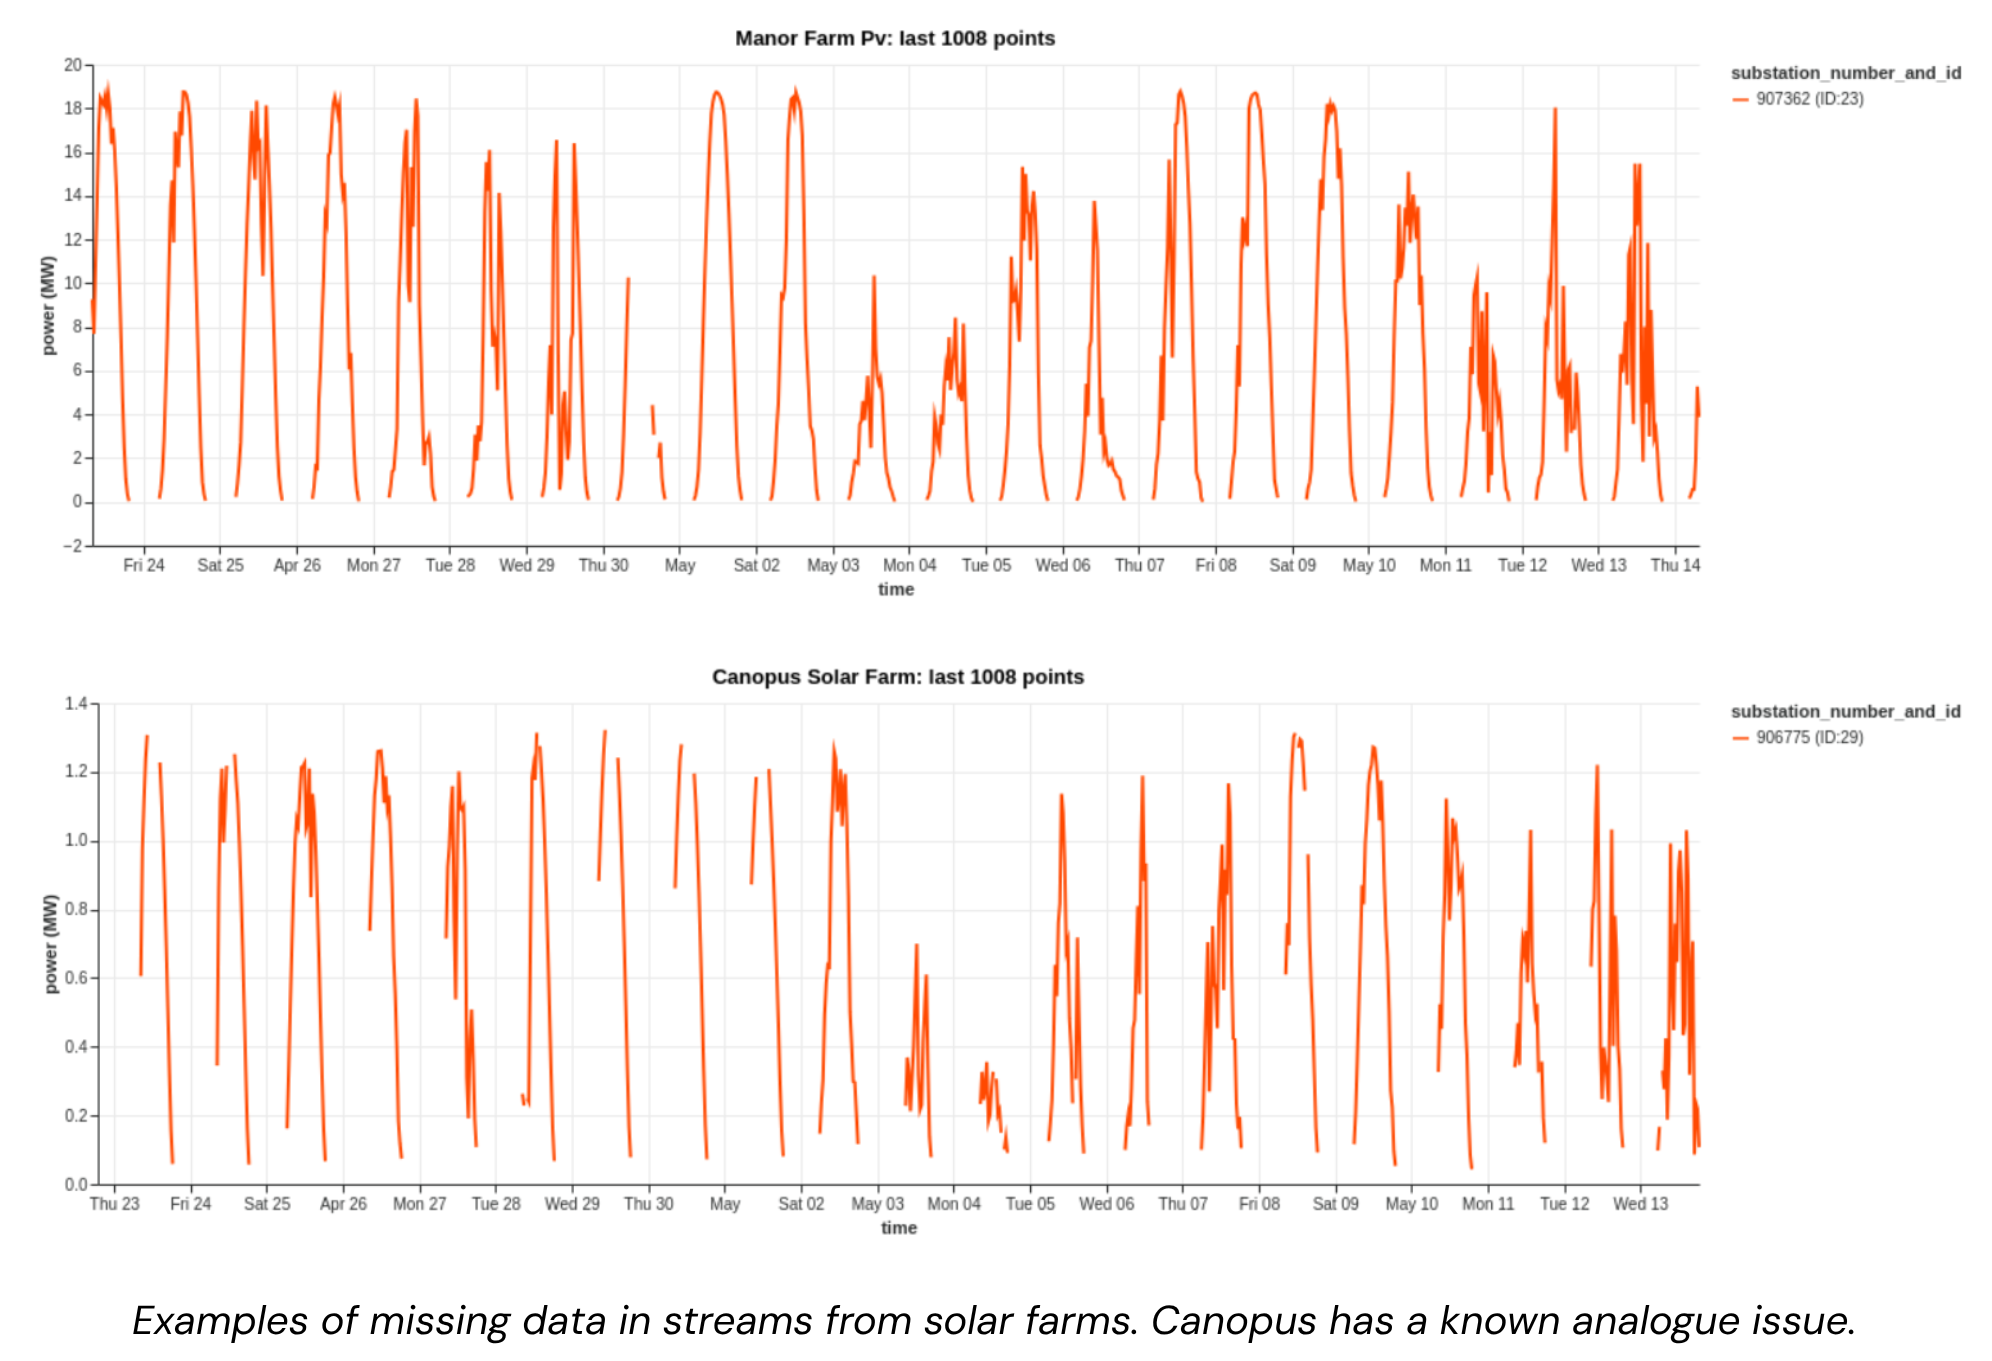
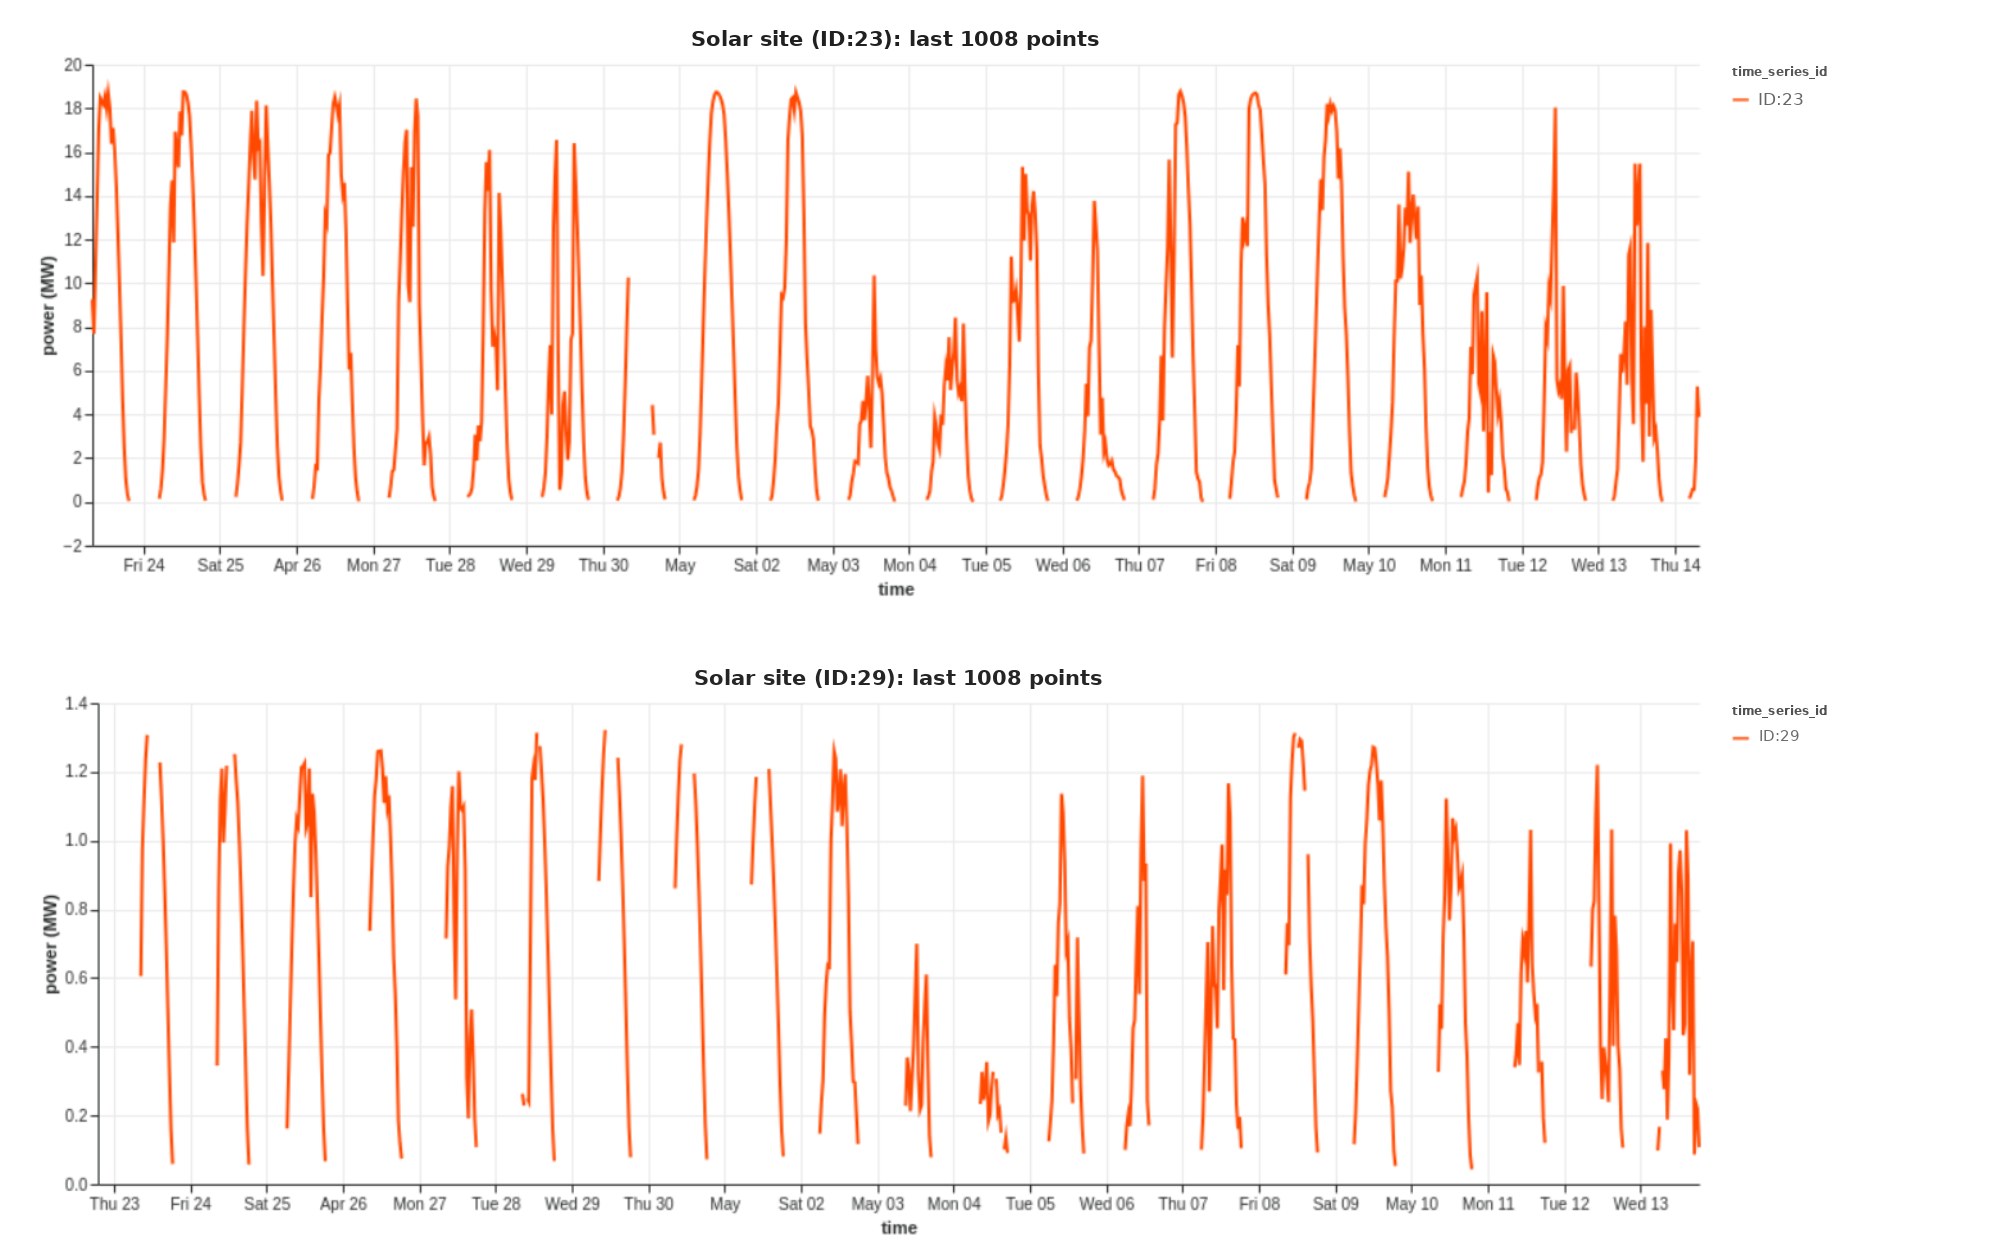
Anonymise the generator charts on the network page
Following NGED's guidance that a single customer's time series should
not appear next to that customer's name: relabel the three generator
panels in two network-page charts "Solar site (ID:nn)", show only the
time-series ID in their legends, crop off the captions baked into the
images and restore them as page text, and stop naming the same solar
farm on the one other page that placed it beside its neighbouring
primary.

Changed region(s): [[0.0, 0.0, 0.9337, 0.9944], [0.8715, 0.4972, 0.996, 0.5904], [0.8715, 0.0311, 0.996, 0.0932]]

diff --git a/docs/background/network.md b/docs/background/network.md
@@ -59,11 +59,13 @@ Some time series go "stuck" for hours or days (standard deviation near zero over
 
 ### Missing data
 
-Gaps range from a few half-hours to months. Solar farms frequently have no data overnight (expected), but also have unexplained daytime gaps. ![Examples of missing data in streams from two solar farms in the trial area, solar farm A and solar farm B. Solar farm B has a known analogue metering issue.](assets/missing_data.png)
+Gaps range from a few half-hours to months. Solar farms frequently have no data overnight (expected), but also have unexplained daytime gaps. ![Examples of missing data from two solar sites in the trial area, time series 23 and 29](assets/missing_data.png)
+
+*Examples of missing data from two solar sites in the trial area, time series 23 and 29. Time series 29 has a known analogue metering issue.*
 
 ### Apparent power (MVA) metering
 
-Some substations only have MVA meters, which report the *absolute value* of power flow — they cannot detect direction. When generation exceeds demand and power flows "backwards", the MVA reading increases rather than going negative. This "bouncing off zero" behaviour looks like a demand increase but is actually reverse power flow. In the trial area, 10 sites are metered in apparent power, and one, and possibly two more, have shown reverse flow on sunny days. The following figure shows power flow for Stickney primary and Leverton Solar Park; note the absence of peaks at Stickney primary on May 3rd and 4th when Leverton experienced lower generation: ![Power flow for Stickney primary and Leverton Solar Park; note the absence of peaks at Stickney on May 3rd and 4th, when Leverton experienced lower generation](assets/MVA_metering_bounce_at_Stickney_primary.png)
+Some substations only have MVA meters, which report the *absolute value* of power flow — they cannot detect direction. When generation exceeds demand and power flows "backwards", the MVA reading increases rather than going negative. This "bouncing off zero" behaviour looks like a demand increase but is actually reverse power flow. In the trial area, 10 sites are metered in apparent power, and one, and possibly two more, have shown reverse flow on sunny days. The following figure shows power flow for Stickney primary (time series 14) and a nearby solar site (time series 22); note the absence of peaks at Stickney primary on 3 and 4 May, when the solar site generated less: ![Power flow for Stickney primary (time series 14) and a nearby solar site (time series 22)](assets/MVA_metering_bounce_at_Stickney_primary.png)
 
 ### Switching events
 

diff --git a/docs/techniques/disaggregation-evaluation.md b/docs/techniques/disaggregation-evaluation.md
@@ -43,7 +43,7 @@ data, for the subset where metering happens to exist.
 of the unmetered fleet.
 
 **Concrete example in the NGED dataset**: Stickney primary's midday peaks correlate with the
-separately-metered nearby Leverton solar farm — a ready-made held-out label test.
+separately-metered solar farm nearby — a ready-made held-out label test.
 
 ---
 
